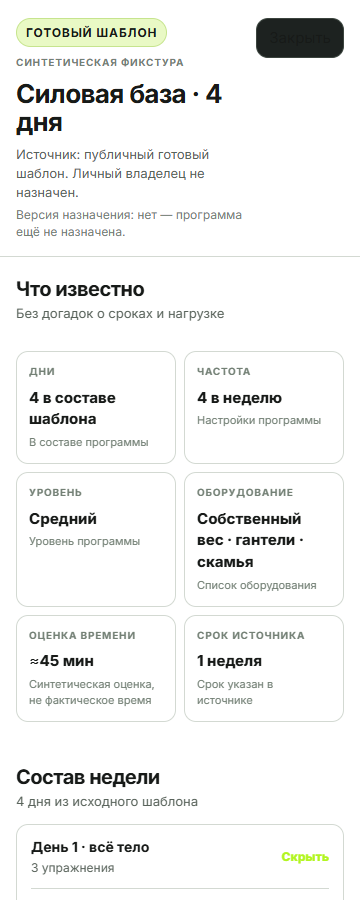
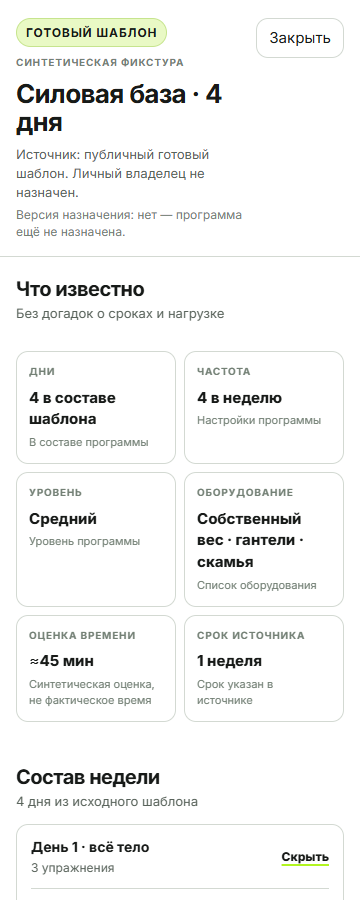
fix(ux): restore light-theme control contrast

Changed region(s): [[0.7028, 0.0, 0.9778, 0.0622], [0.7639, 0.9333, 0.9167, 0.9644]]

diff --git a/docs/ux/issue-997-program-preview-design/prototype.html b/docs/ux/issue-997-program-preview-design/prototype.html
@@ -206,6 +206,20 @@
       .theme-toggle {
         white-space: nowrap;
       }
+      body[data-theme='light'] .close-button,
+      body[data-theme='light'] .theme-toggle,
+      body[data-theme='light'] .button-secondary {
+        border-color: var(--border);
+        background: var(--surface-raised);
+        color: var(--text);
+      }
+      body[data-theme='light'] .close-button:hover:not(:disabled),
+      body[data-theme='light'] .theme-toggle:hover:not(:disabled),
+      body[data-theme='light'] .button-secondary:hover:not(:disabled) {
+        border-color: var(--border-strong);
+        background: var(--surface-muted);
+        color: var(--text);
+      }
       .app-view {
         display: grid;
         grid-template-columns: minmax(240px, 0.84fr) minmax(340px, 1.16fr);
@@ -488,6 +502,13 @@
         color: var(--accent);
         font-size: 12px;
         font-weight: 800;
+      }
+      body[data-theme='light'] .day-toggle__state {
+        color: var(--text);
+        text-decoration: underline;
+        text-decoration-color: var(--accent);
+        text-decoration-thickness: 2px;
+        text-underline-offset: 3px;
       }
       .exercise-list {
         display: grid;

diff --git a/docs/ux/issue-997-program-preview-design/README.md b/docs/ux/issue-997-program-preview-design/README.md
@@ -174,14 +174,20 @@ Dark/Light, `320/360/393/430/1440 × 900`:
   без восстановления отсутствующих значений;
 - [`checks.json`](evidence/checks.json) содержит viewport-геометрию, `nowrap`, отсутствие
   горизонтального overflow/клиппинга, матрицу фикстур, различие действий и keyboard/focus.
+- В `checks.json.contrast` сохранены реальные computed CSS-цвета Chromium после завершения
+  theme repaint для `Закрыть`, `Тёмная тема`, `Скрыть` и `Показать`. Light default: `17.54:1`,
+  hover: `17.39:1`, focus: `17.08:1`; Dark default: `14.56:1` для обычных кнопок и `12.27:1`
+  для day-state. Все значения проходят WCAG AA для обычного текста (`>= 4.5:1`). В Light
+  текст day-state стал тёмным, а lime сохранён отдельным подчёркиванием; Dark-акценты не менялись.
 
 Все assertions этого run прошли: три встречи видимой подписи имеют `white-space: nowrap`,
 статусный чип остаётся внутри карточки, источники фактов не расширяют контейнер, а `Нет данных`
 сохраняется для неполных и legacy-полей. Дополнительно зафиксированы нейтральные desktop
 границы, отсутствие fixed duplicate review-control, нулевое пересечение source/CTA на 320 px,
 Tab-wrap, Escape и возврат фокуса на карточную кнопку. Увеличение текста проверено CSS text-size
-diagnostic 125%; WebKit проверен на 393 × 900 по геометрии и overflow. Системные настройки
-доступности ОС не проверялись.
+diagnostic 125%; WebKit проверен на 393 × 900 по геометрии и overflow. Снимки после смены
+темы делались только после фактического browser repaint; это исключает прежний промежуточный
+нативный тёмный фон Light-кнопок из evidence. Системные настройки доступности ОС не проверялись.
 
 ## Что не входит
 
